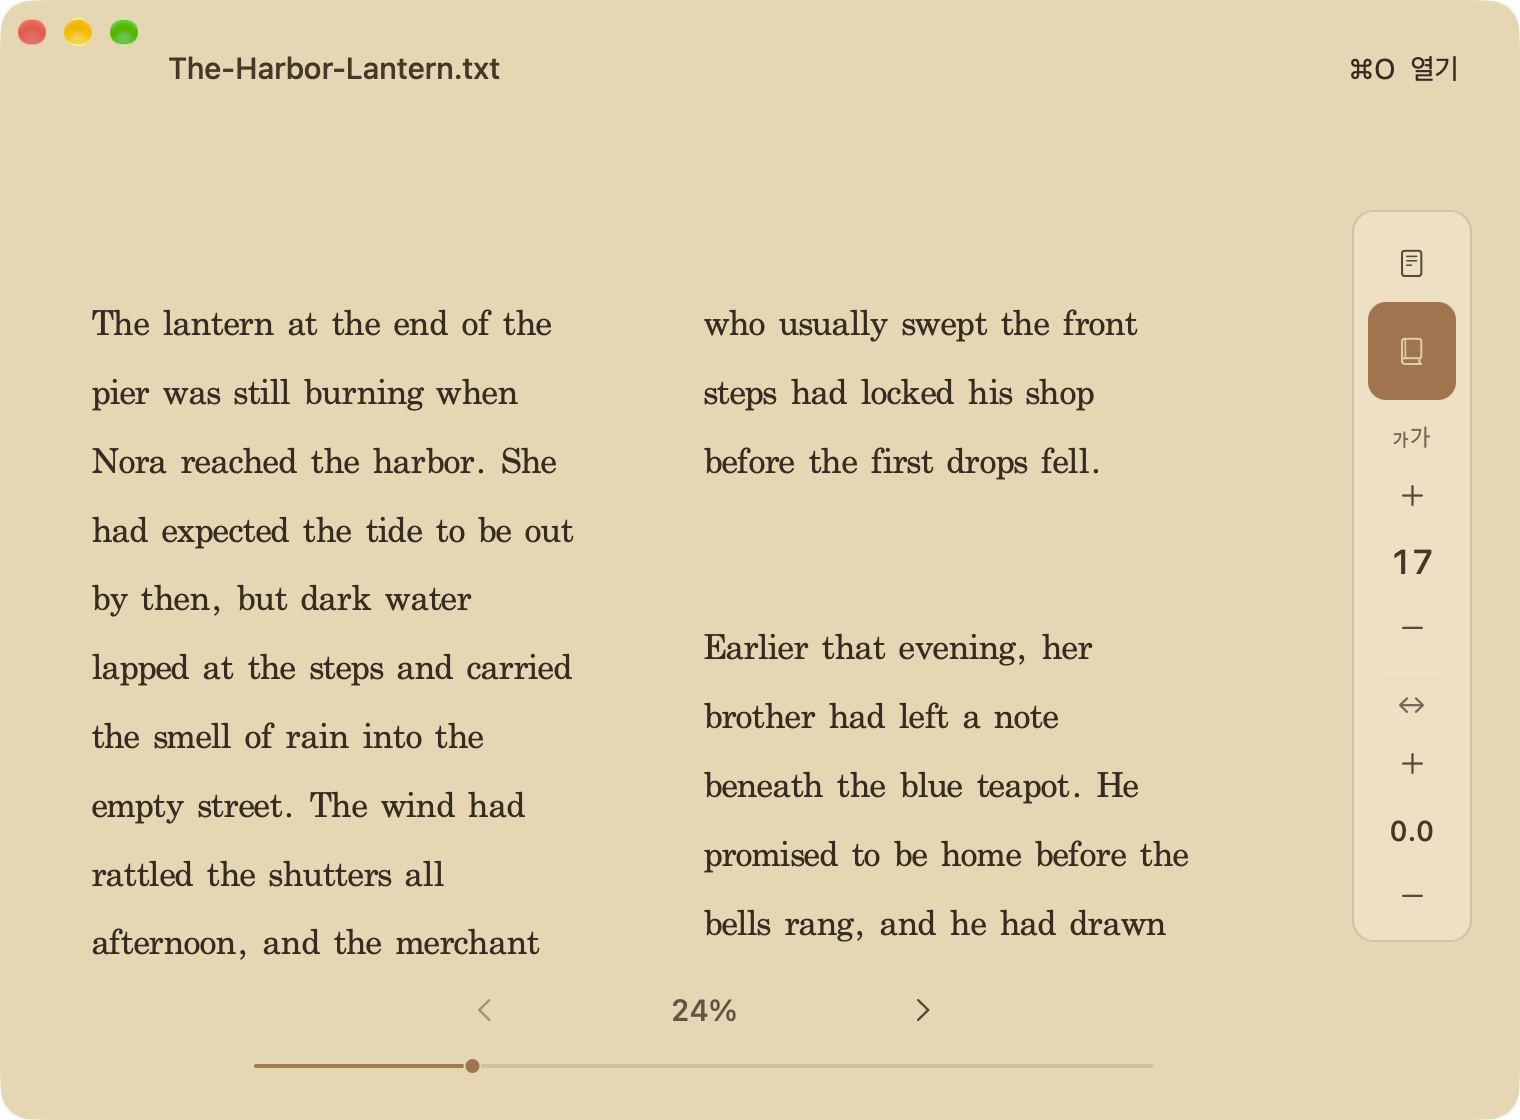
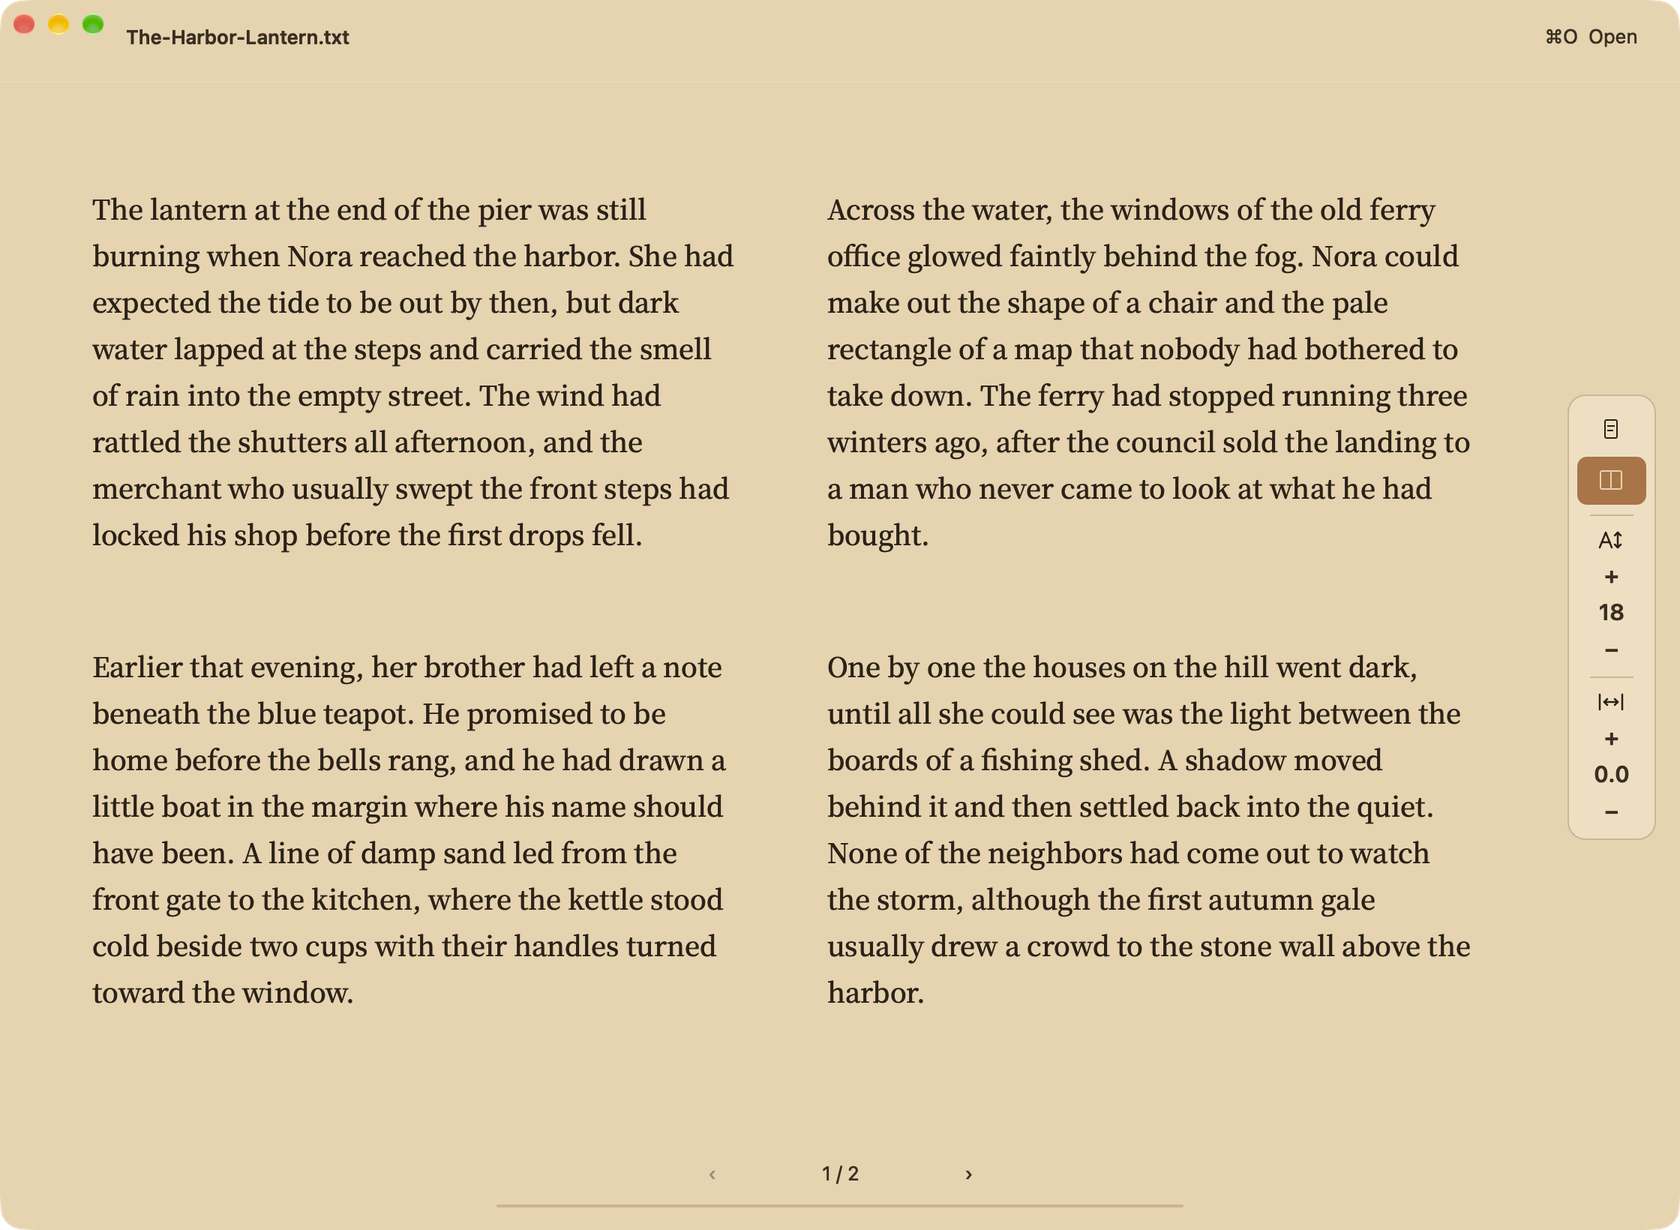
docs: 최신 읽기 화면과 다운로드 안내 갱신
한영 README와 사이트에 최신 앱 화면을 넣고 GitHub 스타 버튼을 강조했다. 글꼴 검증은 실제로 배치된 글자를 확인한다.

diff --git a/Website/assets/site.css b/Website/assets/site.css
@@ -34,19 +34,20 @@ nav a:hover, nav a[aria-current] { text-decoration: underline; text-underline-of
 .github-star {
   display: inline-flex;
   align-items: center;
-  gap: 5px;
-  border: 1px solid var(--line);
+  gap: 6px;
+  border: 1px solid #cbbc99;
   border-radius: 6px;
   padding: 4px 9px;
   white-space: nowrap;
   color: inherit;
   font: inherit;
-  background: transparent;
+  font-weight: 600;
+  background: #fbf8ef;
   cursor: pointer;
 }
-nav .github-star:hover { background: #efefef; text-decoration: none; }
-.github-star > [aria-hidden] { font-size: 1.1em; line-height: 1; }
-.star-count { border-inline-start: 1px solid var(--line); padding-inline-start: 6px; color: var(--muted); font-variant-numeric: tabular-nums; }
+nav .github-star:hover { background: #f5eedc; border-color: #b09a65; text-decoration: none; }
+.star-icon { color: #946513; font-size: 1.1em; line-height: 1; }
+.star-count { border-inline-start: 1px solid #dfd3b9; padding-inline-start: 6px; color: var(--muted); font-variant-numeric: tabular-nums; }
 .hero {
   display: grid;
   grid-template-columns: .86fr 1.14fr;
@@ -85,7 +86,7 @@ h1 { font-size: clamp(3.8rem, 6.8vw, 6.65rem); }
   overflow: hidden;
 }
 .preview { min-width: 0; margin: 0; padding: 0; border: 0; }
-.reader img { width: 100%; aspect-ratio: 800 / 550; object-fit: contain; }
+.reader img { width: 100%; }
 .double-image, #double:checked ~ .reader .single-image { display: none; }
 #double:checked ~ .reader .double-image { display: block; }
 .view-control { display: flex; justify-content: center; gap: 4px; margin: 13px auto 0; }

diff --git a/Website/templates/home.html b/Website/templates/home.html
@@ -14,8 +14,8 @@
         <input class="sr-only" type="radio" name="view" id="single" checked>
         <input class="sr-only" type="radio" name="view" id="double">
         <figure class="reader">
-          <img class="single-image" src="/assets/reader.webp" width="800" height="550" alt="$reader_alt" fetchpriority="high">
-          <img class="double-image" src="/assets/spread.webp" width="800" height="550" alt="$spread_alt">
+          <img class="single-image" src="$reader_image" width="1120" height="820" alt="$reader_alt" fetchpriority="high">
+          <img class="double-image" src="$spread_image" width="1120" height="820" alt="$spread_alt">
         </figure>
         <div class="view-control">
           <label for="single">$one_page</label>

diff --git a/Website/templates/page.html b/Website/templates/page.html
@@ -7,7 +7,7 @@
   <meta name="description" content="$description">
   <meta property="og:title" content="$title">
   <meta property="og:description" content="$description">
-  <meta property="og:image" content="https://goodtextviewer.allmightdev.com/assets/reader.webp">
+  <meta property="og:image" content="https://goodtextviewer.allmightdev.com$reader_image">
   <meta property="og:url" content="https://goodtextviewer.allmightdev.com$canonical">
   <link rel="canonical" href="https://goodtextviewer.allmightdev.com$canonical">
   <link rel="alternate" hreflang="en" href="$english_url">

diff --git a/Website/build.py b/Website/build.py
@@ -59,7 +59,7 @@ EN = {
     "large_title": "Large files, quick start",
     "large_body": "Begin reading when the first page is ready. The rest of the document is paginated in the background.",
     "type_title": "Type that suits you",
-    "type_body": "Choose a single page or a two-page spread. Adjust the font size and letter spacing for comfortable reading.",
+    "type_body": "Choose a single page or a two-page spread. Adjust the type, and see your current page or spread out of the total.",
     "wrap_title": "Clean up old line breaks",
     "wrap_body": "Let older fixed-width TXT paragraphs flow across the page. UTF-8, UTF-16, and legacy Korean CP949 are supported.",
     "spread_title": "Try the reading controls",
@@ -100,7 +100,7 @@ KO = {
     "large_title": "큰 파일도 빠르게",
     "large_body": "첫 페이지가 준비되면 바로 읽기 시작하세요. 나머지 페이지는 백그라운드에서 계산합니다.",
     "type_title": "읽기 편한 글자",
-    "type_body": "한 쪽과 두 쪽 보기를 고르고, 글자 크기와 자간을 눈에 편하게 조절하세요.",
+    "type_body": "한 쪽과 두 쪽 보기를 고르고 글자 크기와 자간을 조절하세요. 하단에서 전체 장수와 지금 읽는 위치를 확인할 수 있어요.",
     "wrap_title": "오래된 줄바꿈 정리",
     "wrap_body": "고정 폭으로 저장된 TXT 문단을 페이지 너비에 맞춰 읽을 수 있습니다. UTF-8, UTF-16, CP949를 지원합니다.",
     "spread_title": "읽기 설정 체험",
@@ -231,8 +231,8 @@ def archive_rows(releases, text):
 def write_site(destination, releases, stars, github_star=False):
     shutil.copytree(SOURCE / "assets", destination / "assets", dirs_exist_ok=True)
     asset_versions = {
-        extension: sha256((destination / "assets" / f"site.{extension}").read_bytes()).hexdigest()[:12]
-        for extension in ("css", "js")
+        name: sha256((destination / "assets" / name).read_bytes()).hexdigest()[:12]
+        for name in ("site.css", "site.js", "reader.webp", "spread.webp")
     }
     latest = {}
     for version, _, _, builds in releases:
@@ -245,11 +245,13 @@ def write_site(destination, releases, stars, github_star=False):
         home = f"{prefix}/"
         downloads = f"{prefix}/downloads/"
         common = {key: escape(value) for key, value in text.items()}
+        common["reader_image"] = f"/assets/reader.webp?v={asset_versions['reader.webp']}"
+        common["spread_image"] = f"/assets/spread.webp?v={asset_versions['spread.webp']}"
         count_value = "" if stars is None else f"{stars:,}"
         hidden_count = " hidden" if stars is None else ""
         count_label = common["star_count_label"]
         star_content = (
-            f'<span aria-hidden="true">☆</span> <span>{common["star_label"]}</span> '
+            f'<span class="star-icon" aria-hidden="true">★</span> <span>{common["star_label"]}</span> '
             f'<span class="star-count"{hidden_count}><span class="sr-only">{count_label} </span>'
             f'<span data-star-count>{count_value}</span></span>'
         )
@@ -290,8 +292,8 @@ def write_site(destination, releases, stars, github_star=False):
                 downloads_current=' aria-current="page"' if archive else "",
                 repo_url=REPO_URL,
                 star_button=star_button,
-                stylesheet_version=asset_versions["css"],
-                script_version=asset_versions["js"],
+                stylesheet_version=asset_versions["site.css"],
+                script_version=asset_versions["site.js"],
                 alternate_lang="ko" if lang == "en" else "en",
                 alternate_label="한국어" if lang == "en" else "English",
                 alternate_url=("/ko" if lang == "en" else "") + suffix,

diff --git a/Qt/Tests/ReaderTests.cpp b/Qt/Tests/ReaderTests.cpp
@@ -18,6 +18,7 @@
 #include <QTemporaryDir>
 #include <QTest>
 #include <QTextBoundaryFinder>
+#include <QTextLayout>
 #include <QTranslator>
 #include <QtMath>
 
@@ -98,12 +99,24 @@ private slots:
     void bundledReadingFont()
     {
 #if defined(Q_OS_MACOS) || defined(Q_OS_WIN)
-        const auto font = QRawFont::fromFont(readingFont(18, 0));
-        QVERIFY(font.isValid());
-        QVERIFY(font.familyName().startsWith(u"Noto Serif KR"));
-        QCOMPARE(font.weight(), QFont::Medium);
-        QVERIFY(font.supportsCharacter(u'한'));
-        QVERIFY(font.supportsCharacter(u'A'));
+        const QRawFont bundled(u":/Assets/Fonts/NotoSerifKR-Medium.otf"_s, 18);
+        QVERIFY(bundled.isValid());
+        QCOMPARE(bundled.weight(), QFont::Medium);
+        QVERIFY(bundled.supportsCharacter(u'한'));
+        QVERIFY(bundled.supportsCharacter(u'A'));
+
+        const auto settings = readingFont(18, 0);
+        QTextLayout shaped(u"한A"_s, settings);
+        shaped.beginLayout();
+        auto line = shaped.createLine();
+        QVERIFY(line.isValid());
+        line.setLineWidth(100);
+        shaped.endLayout();
+        const auto runs = shaped.glyphRuns();
+        QVERIFY(!runs.isEmpty());
+        for (const auto &run : runs) {
+            QCOMPARE(run.rawFont().familyName(), bundled.familyName());
+        }
 #else
         QSKIP("The reading font is bundled on macOS and Windows.");
 #endif

diff --git a/HomebrewTap/Casks/dev-dot-good-text-viewer.rb b/HomebrewTap/Casks/dev-dot-good-text-viewer.rb
@@ -1,6 +1,6 @@
 cask "dev-dot-good-text-viewer" do
-  version "1.2.0"
[1 lines of base64/hex data omitted]
+  version "1.2.1"
[1 lines of base64/hex data omitted]
 
   url "https://github.com/arden-deq/Good-Text-Viewer/releases/download/v#{version}/Good-Text-Viewer-#{version}-macOS-universal.zip"
   name "Good Text Viewer"

diff --git a/README.md b/README.md
@@ -55,7 +55,7 @@ These screenshots show the [Korean sample](Samples/느린-밤.txt) in both readi
 
 1. Press `⌘O` or choose **File → Open…**. You can also drop a `.txt` file onto the window.
 2. Choose a single page or a two-page spread. Adjust the font size and letter spacing with the controls on the right.
-3. Turn pages with the keyboard or drag the progress bar at the bottom to jump to a position.
+3. Turn pages with the keyboard or drag the progress bar to jump to a position. The counter shows `current / total`, counting pages in single-page view and spreads in two-page view.
 
 The reader detects UTF-8, UTF-16, and legacy Korean CP949 on both platforms. For older fixed-width documents, it can join hard-wrapped lines when it detects a strong pattern. Turn off **View → Clean up hard line breaks** to keep the original line breaks. On Windows, use Ctrl in place of ⌘ and Alt in place of ⌥ in the shortcuts below.
 
